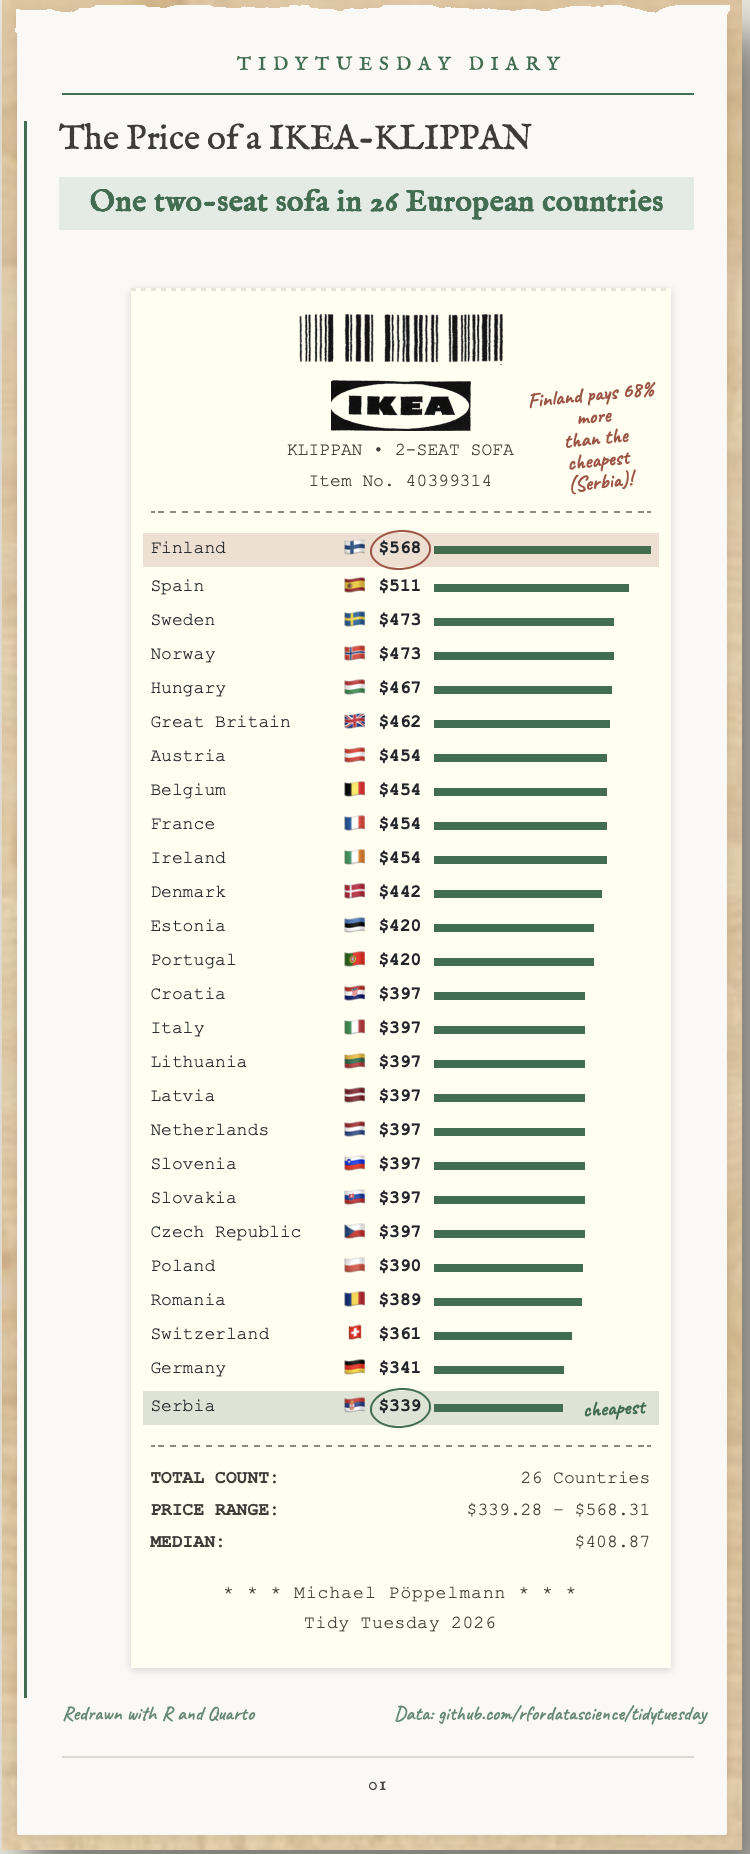
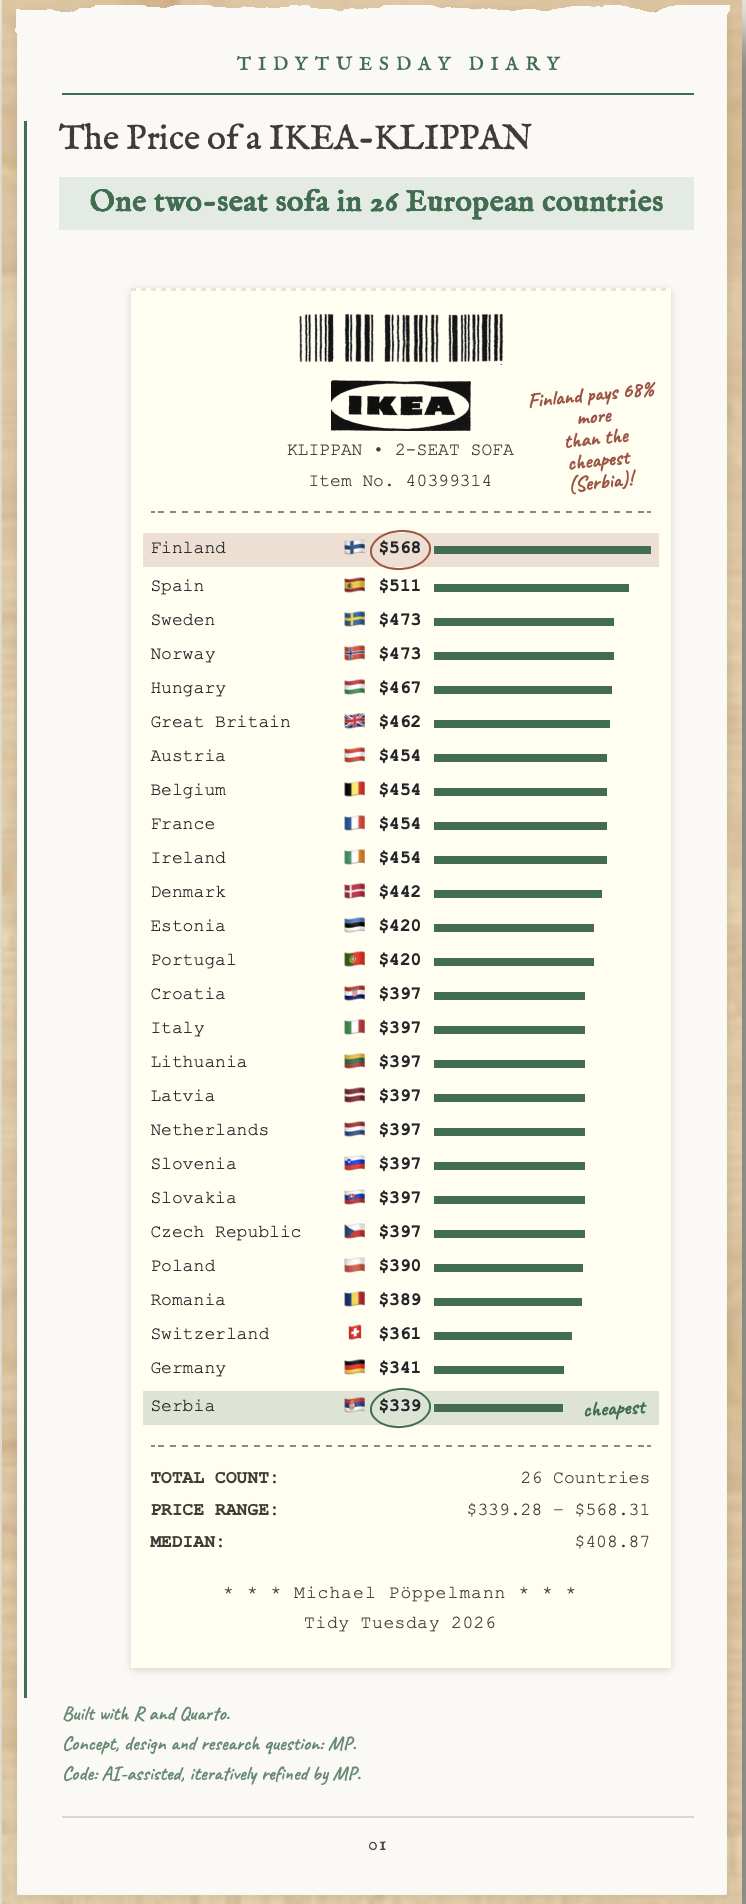
Adaptation

diff --git a/2026/27-10-2026/README.md b/2026/27-10-2026/README.md
@@ -91,6 +91,11 @@ An internet connection is needed to load the Google fonts.
 - Exchange rates: [fawazahmed0 currency API](https://github.com/fawazahmed0/exchange-api) (CC0)
 - Dataset: [TidyTuesday](https://github.com/rfordatascience/tidytuesday) by the R4DS Online Learning Community
 
+##  How this was made: 
+
+- The research question, the diary-page concept, the receipt design and all design decisions are mine. 
+- The code was written with an AI assistant. I reviewed each output, corrected it and iterated until it met my expectations.
+
 ## 🤝 Credits
 
 Thanks to Georgios Karamanis for curating the dataset. IKEA and KLIPPAN are trademarks of Inter IKEA Systems B.V.; this project is not affiliated with IKEA. The idea, the design decisions and the checks are mine. When I needed to iterate on the code or got stuck, I worked with an AI assistant.
